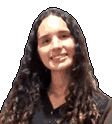
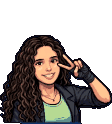
Usa os sprites dos model sheets nos personagens e retratos
Poses recortadas dos model sheets (base, soco, frente, lado, costas e busto),
redimensionadas pela altura real; animações montadas a partir delas.

Claude-Session: https://claude.ai/code/session_01DW8D1GJT64pH5de4EXiuD7

diff --git a/js/sheetsprites.js b/js/sheetsprites.js
@@ -1,0 +1,118 @@
+// Sprites a partir dos model sheets (assets/sprites/<id>_<pose>.png).
+// As animações são montadas com as poses disponíveis: base (3/4), soco (action), frente, lado e costas.
+(function () {
+  const META = window.SHEET_META || {};
+  const imgs = {};
+  const FRAMES = ['front', 'stance', 'side', 'back', 'action'];
+  function load(list) {
+    list.forEach(ch => {
+      if (!META[ch.id]) return;
+      imgs[ch.id] = {};
+      FRAMES.forEach(f => { const im = new Image(); im.src = 'assets/sprites/' + ch.id + '_' + f + '.png'; imgs[ch.id][f] = im; });
+    });
+  }
+  function ready(ch) {
+    const s = imgs[ch.id];
+    return !!s && FRAMES.every(f => s[f].complete && s[f].naturalWidth);
+  }
+
+  const buf = document.createElement('canvas'); buf.width = 220; buf.height = 200;
+  const bx = buf.getContext('2d'); bx.imageSmoothingEnabled = false;
+  const BX = 110, BY = 186; // pés no buffer
+
+  // desenha um quadro no buffer (coordenadas com pés em 0,0, olhando para a direita)
+  function frameTo(c, im, m, o) {
+    const w = m.w, h = m.h, ax = m.ax;
+    c.save();
+    c.translate(o.dx || 0, o.dy || 0);
+    if (o.rot) c.rotate(o.rot * Math.PI / 180);
+    if (o.crouch) {
+      const k = o.crouch, split = Math.round(h * 0.5);
+      const low = Math.max(4, Math.round((h - split) * k));
+      c.drawImage(im, 0, split, w, h - split, -ax, -low, w, low);
+      c.drawImage(im, 0, 0, w, split, -ax, -low - split + 1, w, split);
+    } else if (o.leg !== undefined) {
+      // chute: recorta a perna da frente e gira em torno do quadril
+      const hipY = Math.round(h * 0.52), cutX = ax - 2;
+      c.save(); c.beginPath(); c.rect(-ax, -h, w, h); c.rect(cutX - ax, -h + hipY, w - cutX, h - hipY); c.clip('evenodd');
+      c.drawImage(im, -ax, -h); c.restore();
+      c.save();
+      c.translate(cutX - ax, -h + hipY); c.rotate(o.leg * Math.PI / 180);
+      c.drawImage(im, cutX, hipY, w - cutX, h - hipY, 0, 0, w - cutX, h - hipY);
+      c.restore();
+    } else {
+      const sy = o.sy || 1;
+      c.drawImage(im, -ax, -h * sy, w, h * sy);
+    }
+    c.restore();
+  }
+
+  // estados -> quadro + transformação
+  function spec(ch, st, t) {
+    const S = META[ch.id];
+    const k = st.kind;
+    const bob = Math.sin(t / 9);
+    switch (k) {
+      case 'idle': {
+        const style = ch.idle;
+        if (style === 'jog') return { f: 'stance', dy: -Math.abs(Math.sin(t / 4)) * 2 };
+        if (style === 'bounce') return { f: 'stance', dy: -Math.abs(Math.sin(t / 7)) * 2 };
+        if (style === 'sway') return { f: 'stance', rot: Math.sin(t / 14) * 2 };
+        if (style === 'cool') return { f: 'stance', sy: 1 + Math.sin(t / 16) * 0.012, rot: Math.sin(t / 30) };
+        return { f: 'stance', sy: 1 + bob * 0.015 };
+      }
+      case 'walk': return { f: 'stance', dy: -Math.abs(Math.sin(t / 5)) * 2.5, rot: Math.sin(t / 5) * 2.5 * st.dir };
+      case 'crouch': return { f: 'stance', crouch: 0.45 };
+      case 'getup': return { f: 'stance', crouch: 0.45 + st.k * 0.55 };
+      case 'jump': return st.up ? { f: 'stance', crouch: 0.8, rot: -4 } : { f: 'stance', crouch: 0.62, rot: 6 };
+      case 'block': return st.crouch ? { f: 'stance', crouch: 0.45, dx: -2 } : { f: 'side', rot: -5, dx: -3 };
+      case 'hit': return st.crouch ? { f: 'stance', crouch: 0.45, rot: -8, dx: -3 } : { f: 'stance', rot: -12 * st.k, dx: -4 * st.k };
+      case 'airhit': return { f: 'side', rot: -40 };
+      case 'lying': return { f: 'side', rot: -90, dx: Math.round(S.side.h * 0.5), dy: -S.side.ax };
+      case 'punch': return st.phase === 0 ? { f: 'stance', dx: -2, rot: -3 } : (st.phase === 1 || st.k < 0.5 ? { f: 'action', dx: 4 } : { f: 'stance' });
+      case 'cpunch': return st.phase === 0 ? { f: 'stance', crouch: 0.45 } : { f: 'action', crouch: 0.5, dx: 4 };
+      case 'jpunch': return { f: 'action', crouch: 0.7, rot: 12 };
+      case 'kick': return st.phase === 0 ? { f: 'stance', rot: -4 } : { f: 'stance', leg: st.phase === 1 ? -72 : -72 * (1 - st.k), rot: -8, dx: 2 };
+      case 'ckick': return { f: 'stance', crouch: 0.45, rot: 4, dx: st.phase === 1 ? 10 : 4 };
+      case 'jkick': return { f: 'stance', leg: -55, rot: 10, crouch: 0 };
+      case 'special': {
+        const p = st.pose;
+        if (st.phase === 0) return { f: 'stance', dx: -3, rot: -5 };
+        if (p === 'rising') return { f: 'action', rot: -62, dx: 4 };
+        if (p === 'counter' || p === 'taunt' || p === 'eat' || p === 'summon') return { f: 'front', dy: p === 'summon' ? -2 : 0 };
+        if (p === 'dodge') return { f: 'stance', crouch: 0.4, rot: 20 };
+        if (p === 'spin') return { f: 'stance', leg: -80 + Math.sin(t) * 20, rot: -6 };
+        if (p === 'rush') return { f: 'action', dx: 2, dy: -Math.abs(Math.sin(t / 2)) * 2, rot: 6 };
+        return { f: 'action', dx: 4 };
+      }
+      case 'win': {
+        const v = ch.victory;
+        if (v === 'jumpjoy') return { f: 'front', dy: -Math.abs(Math.sin(t / 7)) * 10 };
+        if (v === 'run') return { f: 'stance', dy: -Math.abs(Math.sin(t / 3)) * 3 };
+        return { f: 'front', sy: 1 + Math.sin(t / 8) * 0.02 };
+      }
+      case 'intro': return { f: 'front' };
+    }
+    return { f: 'stance' };
+  }
+
+  // desenha no contexto final; tint = [r,g,b,a]
+  function draw(ctx, ch, st, t, x, y, facing, scale, tint) {
+    if (!ready(ch)) return false;
+    const sp = spec(ch, st, t);
+    const im = imgs[ch.id][sp.f], m = META[ch.id][sp.f];
+    bx.clearRect(0, 0, buf.width, buf.height);
+    bx.save(); bx.translate(BX, BY); frameTo(bx, im, m, sp); bx.restore();
+    if (tint) {
+      bx.save(); bx.globalCompositeOperation = 'source-atop'; bx.globalAlpha = tint[3];
+      bx.fillStyle = 'rgb(' + tint[0] + ',' + tint[1] + ',' + tint[2] + ')'; bx.fillRect(0, 0, buf.width, buf.height); bx.restore();
+    }
+    scale = scale || 1;
+    ctx.save(); ctx.translate(Math.round(x), Math.round(y));
+    if (facing < 0) ctx.scale(-1, 1);
+    ctx.drawImage(buf, -BX * scale, -BY * scale, buf.width * scale, buf.height * scale);
+    ctx.restore();
+    return true;
+  }
+  window.SheetSprites = { load, ready, draw, META };
+})();

diff --git a/js/fighter.js b/js/fighter.js
@@ -424,6 +424,33 @@
       }
       return Poses.idle(ch, t);
     }
+    sheetState() {
+      const m = this.move;
+      const ph = (d, f, A) => f < d.startup ? [0, f / d.startup] : f < d.startup + A ? [1, (f - d.startup) / A] : [2, Math.min(1, (f - d.startup - A) / (d.recovery || 1))];
+      switch (this.state) {
+        case 'idle': return { kind: 'idle' };
+        case 'walk': return { kind: 'walk', dir: this.vx * this.facing > 0 ? 1 : -1 };
+        case 'crouch': return { kind: 'crouch' };
+        case 'jump':
+          if (m && m.normal) { const [phase, k] = ph(m.def, m.f, m.def.active); return { kind: m.kind, phase, k }; }
+          return { kind: 'jump', up: this.vy < 0 };
+        case 'attack': { const [phase, k] = ph(m.def, m.f, m.def.active); return { kind: m.kind, phase, k }; }
+        case 'special': {
+          const d = m.def, [phase, k] = ph(d, m.f, d.dur || d.window || 12);
+          if (d.type === 'rising' && !this.onGround() && m.f > d.startup + 14) return { kind: 'jump', up: false };
+          return { kind: 'special', pose: d.pose, phase, k };
+        }
+        case 'block': return { kind: 'block', crouch: this.crouching };
+        case 'hit': return { kind: 'hit', k: Math.min(1, this.stun / 10), crouch: this.crouching };
+        case 'airhit': return { kind: 'airhit' };
+        case 'knockdown': return { kind: 'lying' };
+        case 'getup': return { kind: 'getup', k: this.st / 16 };
+        case 'ko': return this.onGround() && this.st > 10 ? { kind: 'lying' } : { kind: 'airhit' };
+        case 'win': return { kind: 'win' };
+        case 'intro': return { kind: this.st < 50 ? 'intro' : 'idle' };
+      }
+      return { kind: 'idle' };
+    }
     normalPose() {
       const m = this.move, d = m.def;
       let phase, k;
@@ -440,8 +467,9 @@
       else if (this.buff > 0) tint = (this.t >> 2) % 2 ? [100, 255, 60, 0.35] : null;
       else if (this.poison > 0) tint = (this.t >> 3) % 2 ? [120, 200, 80, 0.35] : null;
       else if (this.vuln > 0) tint = (this.t >> 3) % 3 === 0 ? [255, 220, 60, 0.35] : null;
-      Sprites.render(this.canvas, this.ch, p, this.anim, tint);
       const sx = Math.round(this.x - camX), sy = Math.round(GROUND + this.y);
+      const useSheet = window.SheetSprites && SheetSprites.ready(this.ch);
+      if (!useSheet) Sprites.render(this.canvas, this.ch, p, this.anim, tint);
       // sombra
       ctx.fillStyle = 'rgba(0,0,0,0.3)';
       const sw = Math.max(14, 44 * (this.ch.scale || 1) / 1.45 + this.y / 4);
@@ -449,11 +477,14 @@
       // kart
       if (this.move && this.move.def && this.move.def.fx === 'kart' && this.state === 'special') { ctx.save(); ctx.translate(sx, sy); ctx.scale(1.5, 1.5); drawKart(ctx, 0, 0, this.facing, this.t); ctx.restore(); }
       if (this.inv > 0 && this.state === 'getup' && (this.t % 4 < 2)) ctx.globalAlpha = 0.7;
-      ctx.save();
-      ctx.translate(sx, sy);
-      if (this.facing === -1) ctx.scale(-1, 1);
-      ctx.drawImage(this.canvas, -Sprites.OX, -Sprites.OY);
-      ctx.restore();
+      if (useSheet) SheetSprites.draw(ctx, this.ch, this.sheetState(), this.anim, sx, sy, this.facing, 1, tint);
+      else {
+        ctx.save();
+        ctx.translate(sx, sy);
+        if (this.facing === -1) ctx.scale(-1, 1);
+        ctx.drawImage(this.canvas, -Sprites.OX, -Sprites.OY);
+        ctx.restore();
+      }
       ctx.globalAlpha = 1;
       if (p.flash) { ctx.fillStyle = 'rgba(255,255,255,0.8)'; ctx.fillRect(sx + this.facing * 18 - 6, sy - 66, 12, 12); }
       if (p.heart) { for (let i = 0; i < 3; i++) heart(ctx, sx + Math.sin(this.t / 10 + i * 2) * 14, sy - 70 - ((this.t + i * 20) % 60) / 2); }

diff --git a/js/game.js b/js/game.js
@@ -11,6 +11,7 @@
   const CH = window.CHARACTERS;
   const byId = id => CH.find(c => c.id === id);
   Sprites.loadPortraits(CH);
+  if (window.SheetSprites) SheetSprites.load(CH);
 
   // ---------- Escala da tela ----------
   function resize() {
@@ -51,7 +52,8 @@
     }
   }
   const previewCanvases = {};
-  function drawCharAt(ch, x, y, pose, scale, key, flip) {
+  function drawCharAt(ch, x, y, pose, scale, key, flip, st) {
+    if (st && window.SheetSprites && SheetSprites.draw(ctx, ch, st, G.t, x, y, flip ? -1 : 1, scale)) return;
     key = key || ch.id;
     if (!previewCanvases[key]) previewCanvases[key] = Sprites.newCanvas();
     const cv = previewCanvases[key];
@@ -77,7 +79,7 @@
     // desfile de personagens
     CH.forEach((ch, i) => {
       const x = 30 + i * 46;
-      drawCharAt(ch, x, 214, Poses.idle(ch, G.t + i * 40), 1, 'title' + ch.id, i >= 4);
+      drawCharAt(ch, x, 214, Poses.idle(ch, G.t + i * 40), 1, 'title' + ch.id, i >= 4, { kind: 'idle' });
     });
     logo(W / 2, 6, 3);
     T('O JOGO DE LUTA DOS FIFIS', W / 2, 56, '#9ff0ff', { align: 'center', shadow: '#000' });
@@ -162,7 +164,7 @@
       // gradiente na base
       for (let i = 0; i < 70; i++) R(px, 144 + i, 112, 1, 'rgba(0,0,0,' + Math.min(0.85, i / 50) + ')');
       const pose = G.locked[p] ? Poses.victory(ch, G.t - G.lockT[p]) : Poses.idle(ch, G.t);
-      drawCharAt(ch, px + 56, 212, pose, 1, 'sel' + p, p === 1);
+      drawCharAt(ch, px + 56, 212, pose, 1, 'sel' + p, p === 1, { kind: G.locked[p] ? 'win' : 'idle' });
       T(ch.name, px + 4, 16, cursorCol[p] === '#ff3a3a' ? '#ff8a8a' : '#8ab8ff', { scale: 2, outline: '#000' });
       T(ch.title, px + 4, 33, '#ffffff', { outline: '#000' });
       T('ALTURA ' + ch.height.toFixed(2).replace('.', ',') + 'M', px + 4, 43, '#ffd400', { outline: '#000' });
@@ -442,6 +444,7 @@
       const ch = G.spectators[i % G.spectators.length]; if (!ch) return;
       const cv = G.specCanvas[i % G.specCanvas.length];
       const cheer = G.phase === 'ko' || (G.combos[0] && G.combos[0].n > 2) || (G.combos[1] && G.combos[1].n > 2);
+      if (window.SheetSprites && SheetSprites.draw(ctx, ch, { kind: cheer ? 'win' : 'idle' }, G.time + i * 60, sp.x, sp.y, sp.x > 288 ? -1 : 1, sp.s, [24, 20, 44, 0.5])) return;
       if (G.time % 2 === 0) Sprites.render(cv, ch, cheer ? Poses.victory(ch, G.time) : Poses.idle(ch, G.time + i * 60), G.time, [24, 20, 44, 0.55]);
       const s = sp.s;
       ctx.save(); ctx.translate(sp.x, sp.y); if (sp.x > 288) ctx.scale(-1, 1);
@@ -579,8 +582,8 @@
     if (wi >= 0) {
       const f = G.fighters[wi], l = G.fighters[1 - wi];
       R(7, 31, 114, 126, '#000'); vgradPanel(8, 32, '#4a2a6a', '#140a24'); photoOr(f.ch, 'big', 8, 32, 112, 124);
-      drawCharAt(f.ch, 120, 208, Poses.victory(f.ch, G.t), 1, 'res');
-      drawCharAt(l.ch, 330, 212, Poses.lying(), 1, 'resL');
+      drawCharAt(f.ch, 120, 208, Poses.victory(f.ch, G.t), 1, 'res', false, { kind: 'win' });
+      drawCharAt(l.ch, 330, 212, Poses.lying(), 1, 'resL', false, { kind: 'lying' });
       T(f.ch.name + ' VENCEU!', W / 2 + 40, 16, '#ffd400', { scale: 2, align: 'center', outline: '#000' });
       // balão
       R(176, 40, 200, 50, '#ffffff'); R(170, 56, 8, 6, '#ffffff'); R(178, 42, 196, 46, '#ffffff');

diff --git a/js/sheetmeta.js b/js/sheetmeta.js
@@ -1,0 +1,1 @@
+window.SHEET_META = {"guti": {"front": {"w": 39, "h": 91, "ax": 19}, "stance": {"w": 58, "h": 93, "ax": 28}, "side": {"w": 21, "h": 90, "ax": 10}, "back": {"w": 37, "h": 84, "ax": 18}, "action": {"w": 58, "h": 83, "ax": 26}}, "min": {"front": {"w": 31, "h": 83, "ax": 15}, "stance": {"w": 41, "h": 83, "ax": 20}, "side": {"w": 17, "h": 83, "ax": 7}, "back": {"w": 31, "h": 83, "ax": 15}, "action": {"w": 52, "h": 67, "ax": 25}}, "pv": {"front": {"w": 42, "h": 99, "ax": 20}, "stance": {"w": 56, "h": 96, "ax": 27}, "side": {"w": 23, "h": 99, "ax": 13}, "back": {"w": 39, "h": 96, "ax": 19}, "action": {"w": 63, "h": 85, "ax": 28}}, "ana": {"front": {"w": 35, "h": 94, "ax": 17}, "stance": {"w": 46, "h": 94, "ax": 22}, "back": {"w": 22, "h": 93, "ax": 13}, "action": {"w": 60, "h": 67, "ax": 25}, "side": {"w": 35, "h": 94, "ax": 17}}, "belipe": {"front": {"w": 36, "h": 83, "ax": 17}, "stance": {"w": 53, "h": 85, "ax": 26}, "side": {"w": 18, "h": 83, "ax": 8}, "back": {"w": 33, "h": 77, "ax": 16}, "action": {"w": 60, "h": 77, "ax": 24}}, "pam": {"front": {"w": 35, "h": 83, "ax": 17}, "stance": {"w": 52, "h": 85, "ax": 25}, "side": {"w": 22, "h": 83, "ax": 11}, "back": {"w": 33, "h": 80, "ax": 16}, "action": {"w": 59, "h": 78, "ax": 24}}, "alex": {"front": {"w": 38, "h": 88, "ax": 19}, "stance": {"w": 56, "h": 90, "ax": 27}, "side": {"w": 23, "h": 88, "ax": 11}, "back": {"w": 35, "h": 82, "ax": 17}, "action": {"w": 64, "h": 81, "ax": 26}}, "valesca": {"front": {"w": 34, "h": 88, "ax": 16}, "stance": {"w": 50, "h": 86, "ax": 24}, "side": {"w": 23, "h": 89, "ax": 14}, "back": {"w": 33, "h": 86, "ax": 16}, "action": {"w": 58, "h": 76, "ax": 25}}};

diff --git a/index.html b/index.html
@@ -13,6 +13,8 @@
 <script src="js/audio.js"></script>
 <script src="js/input.js"></script>
 <script src="js/sprites.js"></script>
+<script src="js/sheetmeta.js"></script>
+<script src="js/sheetsprites.js"></script>
 <script src="js/poses.js"></script>
 <script src="js/characters.js"></script>
 <script src="js/stages.js"></script>
